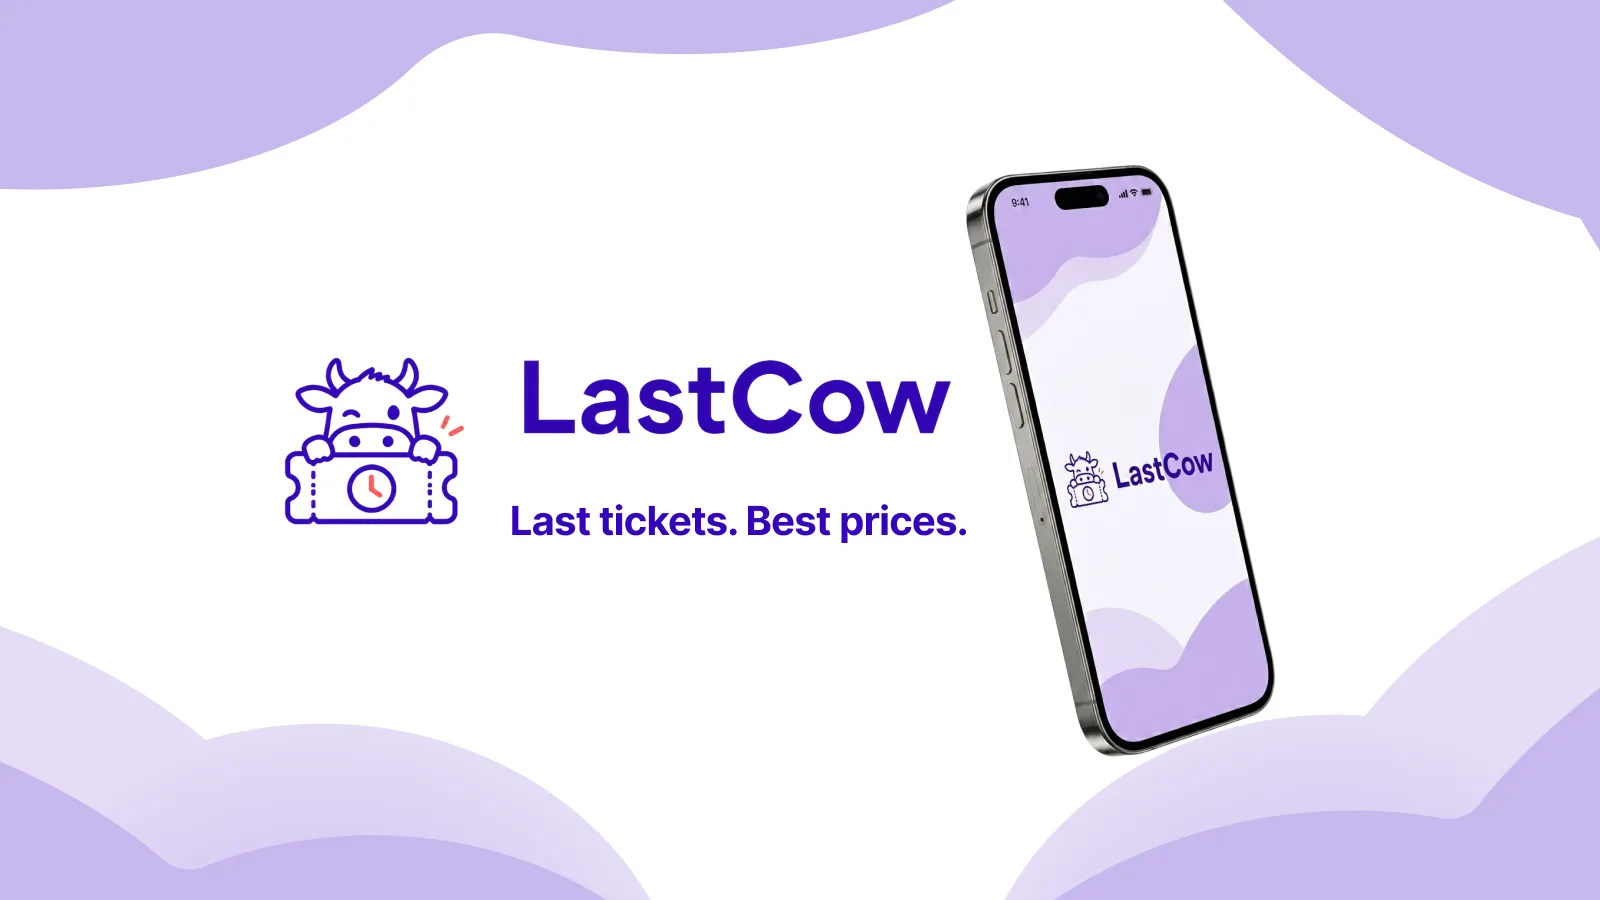
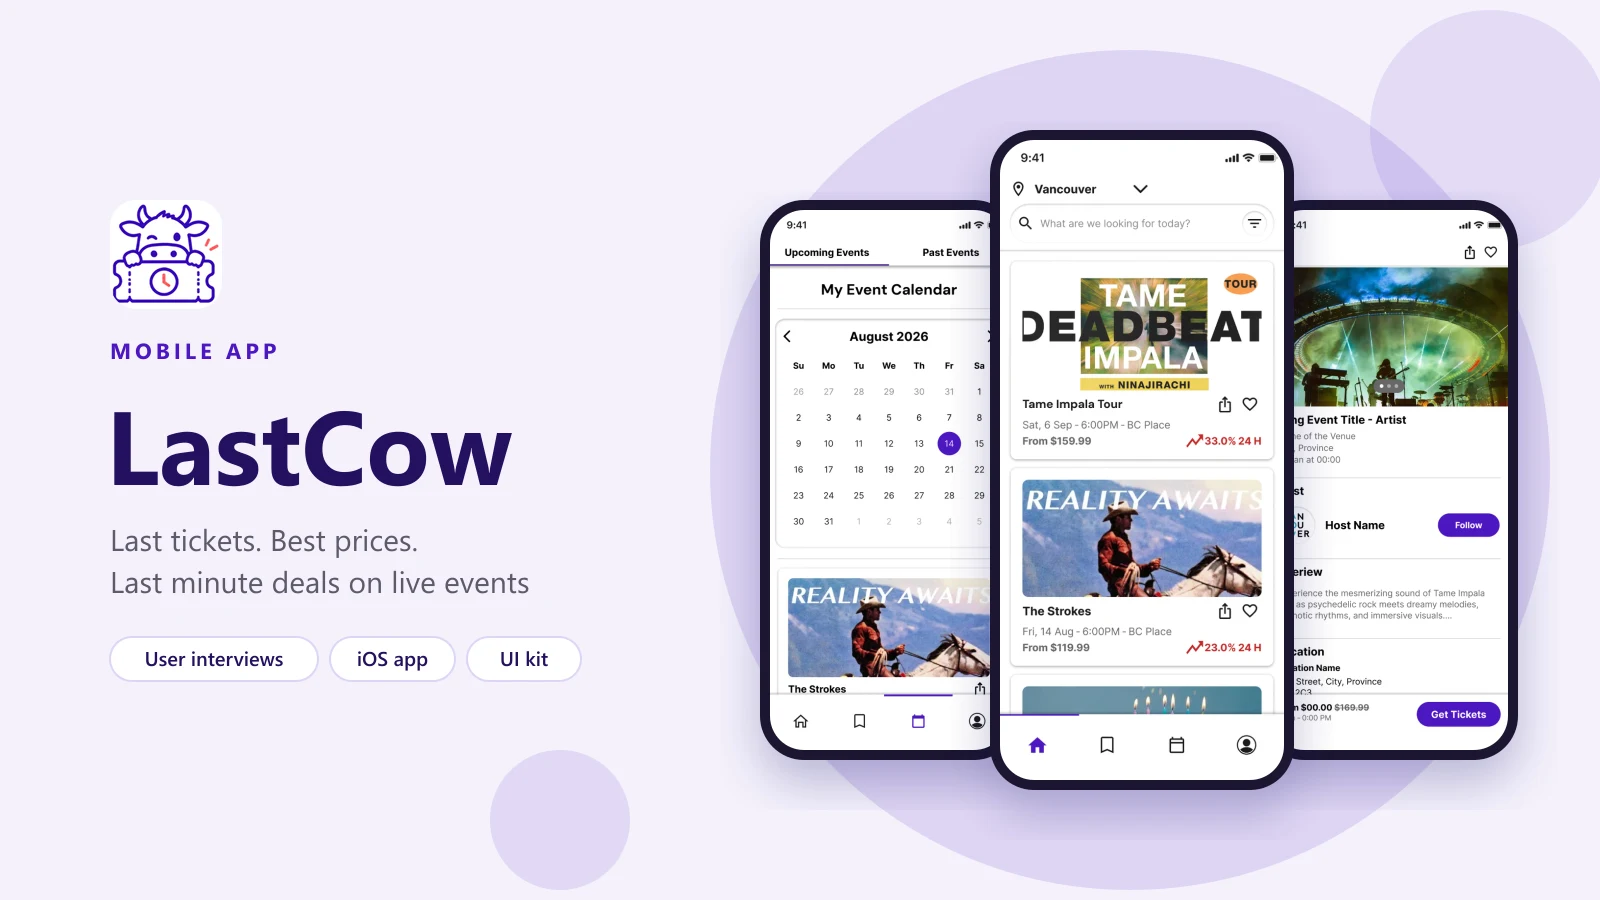
LastCow cover in the shared cover style, from the real hi-fi screens

diff --git a/src/data/projects.ts b/src/data/projects.ts
@@ -467,8 +467,9 @@ export const projects: Project[] = [
     timeline: '2026.07 to 2026.08',
     team: '2 designers',
     tools: ['Figma'],
-    thumbnail: img('lastcow-cover', 'LastCow cover: the cow and ticket logo, the tagline "Last tickets. Best prices." and the app splash screen on an iPhone.'),
-    hero: img('lastcow-cover', 'LastCow cover: the cow and ticket logo, the tagline "Last tickets. Best prices." and the app splash screen on an iPhone.'),
+    // cover: built by scripts/build-covers.mjs
+    thumbnail: img('lastcow-cover', 'LastCow cover: the cow and ticket logo and the tagline "Last tickets. Best prices.", beside the Calendar, Home and Event screens on phones.'),
+    hero: img('lastcow-cover', 'LastCow cover: the cow and ticket logo and the tagline "Last tickets. Best prices.", beside the Calendar, Home and Event screens on phones.'),
     theme: { accent: '#4B17C1', ink: '#1B1B1B', surface: '#EFE9FB' },
     tldr: [
       { label: 'Problem', text: 'People aged 18 to 40 miss live events because they find out too late, when tickets are sold out or too expensive.' },
